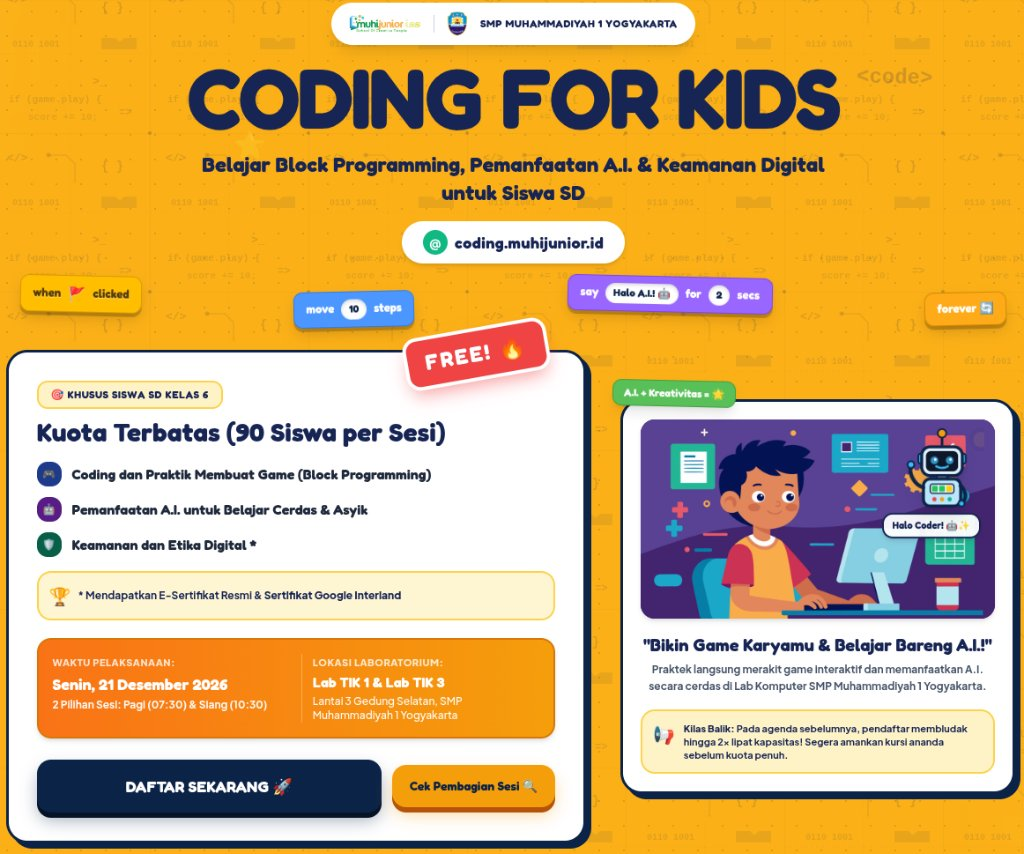
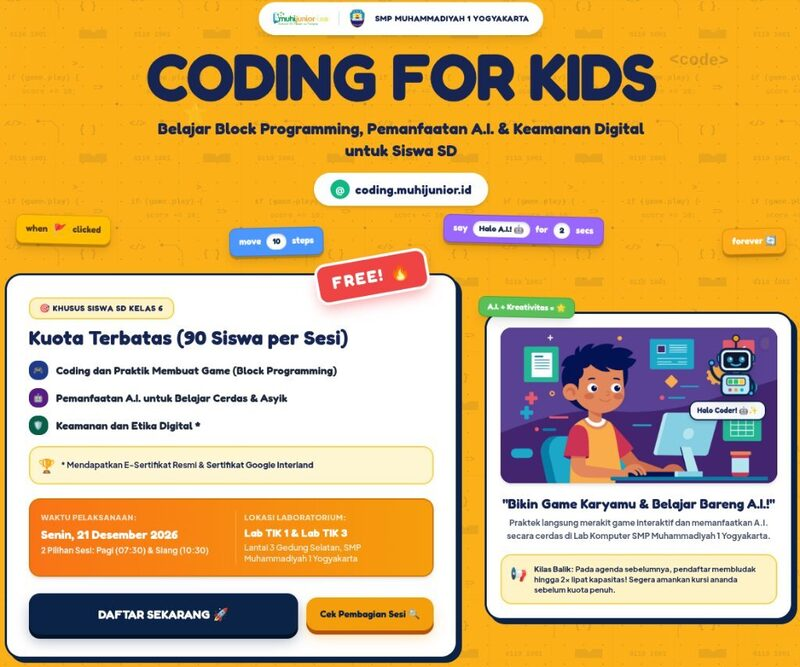
Optimize OG preview image to 96KB, add schema itemprop image, and align landing og metadata

diff --git a/resources/views/layouts/app.blade.php b/resources/views/layouts/app.blade.php
@@ -19,10 +19,13 @@
     <meta property="og:image" content="@yield('og_image', url('images/og-preview.jpg'))">
     <meta property="og:image:secure_url" content="@yield('og_image_secure', url('images/og-preview.jpg'))">
     <meta property="og:image:type" content="image/jpeg">
-    <meta property="og:image:width" content="1024">
-    <meta property="og:image:height" content="854">
+    <meta property="og:image:width" content="800">
+    <meta property="og:image:height" content="667">
     <meta property="og:image:alt" content="Coding for Kids & A.I. for Learning - SMP Muhammadiyah 1 Yogyakarta">
+    
+    <!-- WhatsApp & Schema.org Image Hints -->
     <link rel="image_src" href="@yield('og_image', url('images/og-preview.jpg'))">
+    <meta itemprop="image" content="@yield('og_image', url('images/og-preview.jpg'))">
 
     <!-- Twitter Card -->
     <meta name="twitter:card" content="summary_large_image">

diff --git a/resources/views/landing.blade.php b/resources/views/landing.blade.php
@@ -1,6 +1,8 @@
 @extends('layouts.app')
 
 @section('title', 'Coding for Kids - Belajar Block Programming, A.I. & Keamanan Digital | Muhijunior')
+@section('og_title', 'Coding for Kids - Belajar Block Programming, A.I. & Keamanan Digital | Muhijunior')
+@section('og_description', 'Workshop Coding 100% GRATIS khusus Siswa SD Kelas 6! Belajar logika game Scratch, A.I. ramah anak, dan cyber safety Google Interland di Lab Komputer SMP Muhammadiyah 1 Yogyakarta.')
 
 @section('content')
 
